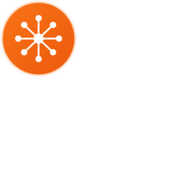
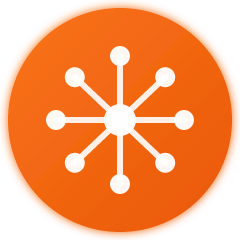
fix(app): add ios safe area padding

diff --git a/src/styles/theme.css b/src/styles/theme.css
@@ -309,6 +309,18 @@
     display: none;
   }
 
+  .safe-area-pt {
+    padding-top: max(env(safe-area-inset-top), 0px);
+  }
+
+  .safe-area-pb {
+    padding-bottom: max(env(safe-area-inset-bottom), 0px);
+  }
+
+  .safe-area-bottom-offset {
+    bottom: max(env(safe-area-inset-bottom), 0px);
+  }
+
   /* iOS-style wiggle animation for edit mode */
   @keyframes wiggle {
     0%,

diff --git a/src/app/components/layout/sidebar.tsx b/src/app/components/layout/sidebar.tsx
@@ -120,7 +120,7 @@ export const Sidebar = memo(function Sidebar() {
 
       {/* Mobile Bottom Navigation */}
       <div
-        className={`fixed inset-x-0 bottom-0 z-50 px-2 pb-2 transition-transform duration-300 md:hidden safe-area-pb ${
+        className={`safe-area-bottom-offset fixed inset-x-0 z-50 px-2 pb-2 transition-transform duration-300 md:hidden ${
           isMobileNavHidden ? 'translate-y-[calc(100%+1rem)]' : 'translate-y-0'
         }`}
       >

diff --git a/src/app/features/dashboard/dashboard-layout.tsx b/src/app/features/dashboard/dashboard-layout.tsx
@@ -90,7 +90,7 @@ export const DashboardLayout = memo(function DashboardLayout({ children }: Dashb
       <div className="relative z-10">
         <Sidebar />
 
-        <div className="md:ml-16 p-3 md:p-6 lg:p-8 pb-20 md:pb-6 lg:pb-8">
+        <div className="safe-area-pt md:ml-16 p-3 md:p-6 lg:p-8 pb-20 md:pb-6 lg:pb-8">
           <Header />
           {children}
         </div>

diff --git a/README.md b/README.md
@@ -125,6 +125,7 @@ Navet (Swedish for "the hub") is a modern, responsive smart home dashboard built
 - Navet now ships with a service worker, install manifest, offline shell, and update prompt
 - The app can be installed from supported desktop and mobile browsers
 - Offline mode currently preserves the app shell and clearly signals that live Home Assistant data still requires connectivity
+- Installed iOS mode now respects safe-area insets so the header and mobile bottom navigation stay clear of the status area and rounded bottom corners
 
 ### Build Verification
 